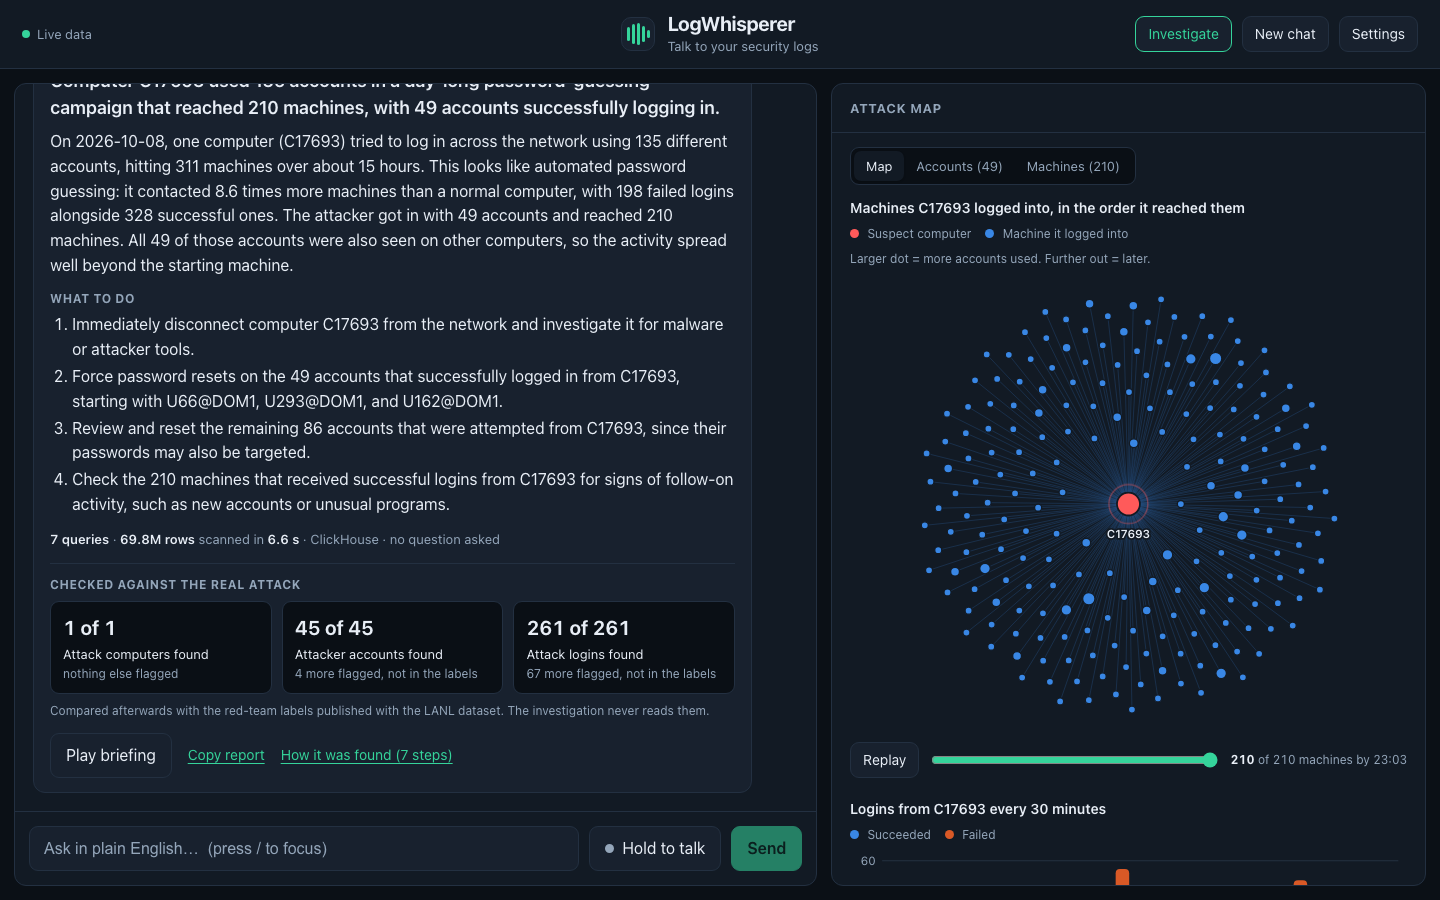
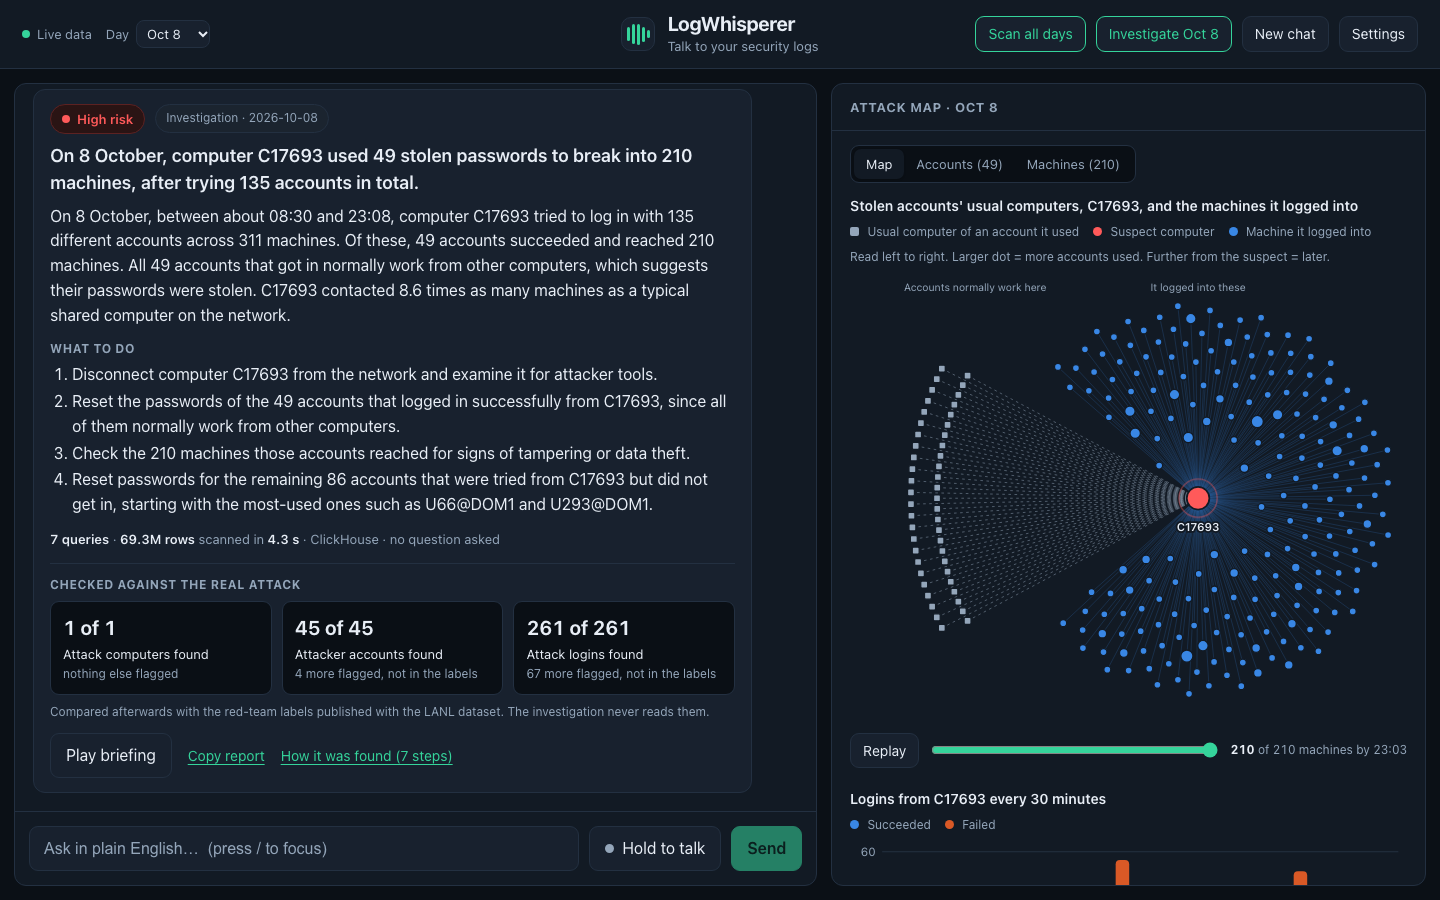
Attack map: add the stolen accounts' usual computers as a third layer
- Investigation finds the computer each stolen account normally works from
- Map reads left to right: usual computers, the suspect, the machines it reached;
  during replay an account's line appears when the suspect first uses it
- Accounts table gains a usual-computer column
- Home page leads with the scan when several days are loaded

diff --git a/frontend/src/components/AttackMap.jsx b/frontend/src/components/AttackMap.jsx
@@ -1,38 +1,70 @@
 import { useEffect, useMemo, useRef, useState } from "react";
 import { useMask } from "../settings.js";
 
-const SIZE = 520;
-const CENTER = SIZE / 2;
-const GOLDEN_ANGLE = Math.PI * (3 - Math.sqrt(5));
+const W = 640;
+const H = 520;
+const SUSPECT = { x: 400, y: H / 2 };
+// Fraction of a turn between successive machines. The golden ratio spreads points
+// evenly whether it is applied to a full circle or, as here, to a wedge.
+const GOLDEN_FRACTION = 0.381966;
+// Machines fan out to the right of the suspect; the wedge on its left is kept
+// clear for the lines coming in from the accounts' usual computers.
+const FAN_DEGREES = 280;
 const PLAY_MS = 6000;
 
 const clock = (iso) => String(iso).slice(11, 16);
+const radians = (degrees) => (degrees * Math.PI) / 180;
 
 /**
- * The suspect computer in the middle and every machine it logged into around it.
+ * Three layers, read left to right:
+ *   the computers the stolen accounts normally work from,
+ *   the suspect computer that used those accounts,
+ *   and every machine it logged into.
  * Machines are placed in the order they were first reached, spiralling outward,
- * so distance from the centre is time. The slider replays the spread.
+ * so distance from the suspect is time. The slider replays the spread.
  */
-export default function AttackMap({ suspects, edges }) {
+export default function AttackMap({ suspects, edges, accounts = [], homes = [] }) {
   const mask = useMask();
   const [shown, setShown] = useState(edges.length);
   const [playing, setPlaying] = useState(false);
   const [hover, setHover] = useState(null);
   const frame = useRef(0);
 
-  const nodes = useMemo(() => {
-    const maxRadius = CENTER - 22;
-    return edges.map((edge, i) => {
-      const radius = 46 + (maxRadius - 46) * Math.sqrt((i + 1) / edges.length);
-      const angle = i * GOLDEN_ANGLE;
+  const nodes = useMemo(
+    () =>
+      edges.map((edge, i) => {
+        const radius = 46 + (225 - 46) * Math.sqrt((i + 1) / edges.length);
+        const angle = radians(-FAN_DEGREES / 2 + ((i * GOLDEN_FRACTION) % 1) * FAN_DEGREES);
+        return {
+          ...edge,
+          kind: "target",
+          x: SUSPECT.x + radius * Math.cos(angle),
+          y: SUSPECT.y + radius * Math.sin(angle),
+          r: Math.min(8, 3 + edge.accounts),
+        };
+      }),
+    [edges]
+  );
+
+  // One square per usual computer, on two staggered arcs to the left of the suspect.
+  const homeNodes = useMemo(() => {
+    const used = new Map(accounts.map((a) => [a.account, a]));
+    const span = Math.min(56, Math.max(12, homes.length * 1.3));
+    return homes.map((home, i) => {
+      const t = homes.length > 1 ? i / (homes.length - 1) : 0.5;
+      const angle = radians(180 - span / 2 + t * span);
+      const radius = i % 2 ? 330 : 300;
+      const account = used.get(home.account);
       return {
-        ...edge,
-        x: CENTER + radius * Math.cos(angle),
-        y: CENTER + radius * Math.sin(angle),
-        r: Math.min(8, 3 + edge.accounts),
+        ...home,
+        kind: "home",
+        firstUsed: account?.first_seen,
+        targets: account?.targets,
+        x: SUSPECT.x + radius * Math.cos(angle),
+        y: SUSPECT.y + radius * Math.sin(angle),
       };
     });
-  }, [edges]);
+  }, [homes, accounts]);
 
   useEffect(() => {
     if (!playing) return;
@@ -50,24 +82,46 @@ export default function AttackMap({ suspects, edges }) {
   if (!edges.length) return null;
   const name = suspects.map((s) => s.computer).join(", ");
   const last = shown > 0 ? nodes[shown - 1] : null;
+  // During a replay, an account's line appears once the suspect has started using it.
+  const now = shown >= edges.length ? "9999" : last ? String(last.first_seen) : "";
+  const inUse = (home) => !home.firstUsed || String(home.firstUsed) <= now;
 
   return (
     <figure className="viz">
       <figcaption className="viz__title">
-        Machines {mask(name)} logged into, in the order it reached them
+        {homeNodes.length > 0
+          ? `Stolen accounts' usual computers, ${mask(name)}, and the machines it logged into`
+          : `Machines ${mask(name)} logged into, in the order it reached them`}
       </figcaption>
 
       <div className="viz__legend">
+        {homeNodes.length > 0 && (
+          <span><i className="key key--home" /> Usual computer of an account it used</span>
+        )}
         <span><i className="key key--suspect" /> Suspect computer</span>
         <span><i className="key key--target" /> Machine it logged into</span>
-        <span className="viz__note">Larger dot = more accounts used. Further out = later.</span>
+        <span className="viz__note">
+          Read left to right. Larger dot = more accounts used. Further from the suspect = later.
+        </span>
       </div>
 
       <div className="map">
-        <svg viewBox={`0 0 ${SIZE} ${SIZE}`} role="img"
-             aria-label={`${edges.length} machines reached from ${name}`}>
+        <svg viewBox={`0 0 ${W} ${H}`} role="img"
+             aria-label={`${homeNodes.length} usual computers, the suspect ${name}, and ${edges.length} machines it reached`}>
+          {homeNodes.filter(inUse).map((n) => (
+            <line key={`h-${n.account}`} className="map__theft" x1={n.x} y1={n.y} x2={SUSPECT.x} y2={SUSPECT.y} />
+          ))}
           {nodes.slice(0, shown).map((n) => (
-            <line key={`l-${n.target}`} className="map__edge" x1={CENTER} y1={CENTER} x2={n.x} y2={n.y} />
+            <line key={`l-${n.target}`} className="map__edge" x1={SUSPECT.x} y1={SUSPECT.y} x2={n.x} y2={n.y} />
+          ))}
+          {homeNodes.map((n) => (
+            <g key={n.account}
+               onPointerEnter={() => setHover(n)}
+               onPointerLeave={() => setHover((h) => (h === n ? null : h))}>
+              <circle className="map__hit" cx={n.x} cy={n.y} r={11} />
+              <rect className={`map__home ${inUse(n) ? "" : "is-waiting"} ${hover === n ? "is-hover" : ""}`}
+                    x={n.x - 4} y={n.y - 4} width={8} height={8} rx={1.5} />
+            </g>
           ))}
           {nodes.slice(0, shown).map((n) => (
             <g key={n.target}
@@ -77,16 +131,38 @@ export default function AttackMap({ suspects, edges }) {
               <circle className={`map__node ${hover === n ? "is-hover" : ""}`} cx={n.x} cy={n.y} r={n.r} />
             </g>
           ))}
-          <circle className="map__suspect-ring" cx={CENTER} cy={CENTER} r={22} />
-          <circle className="map__suspect" cx={CENTER} cy={CENTER} r={13} />
-          <text className="map__label" x={CENTER} y={CENTER + 38} textAnchor="middle">{mask(name)}</text>
+          <circle className="map__suspect-ring" cx={SUSPECT.x} cy={SUSPECT.y} r={22} />
+          <circle className="map__suspect" cx={SUSPECT.x} cy={SUSPECT.y} r={13} />
+          <text className="map__label" x={SUSPECT.x} y={SUSPECT.y + 38} textAnchor="middle">{mask(name)}</text>
+          {homeNodes.length > 0 && (
+            <>
+              <text className="map__caption" x={62} y={22}>Accounts normally work here</text>
+              <text className="map__caption" x={SUSPECT.x} y={22} textAnchor="middle">It logged into these</text>
+            </>
+          )}
         </svg>
 
         {hover && (
-          <div className="tooltip" style={{ left: `${(hover.x / SIZE) * 100}%`, top: `${(hover.y / SIZE) * 100}%` }}>
-            <strong>{mask(hover.target)}</strong>
-            <span>First reached {clock(hover.first_seen)}</span>
-            <span>{hover.accounts} {hover.accounts === 1 ? "account" : "accounts"} · {hover.logins} {hover.logins === 1 ? "login" : "logins"}</span>
+          <div className="tooltip" style={{ left: `${(hover.x / W) * 100}%`, top: `${(hover.y / H) * 100}%` }}>
+            {hover.kind === "home" ? (
+              <>
+                <strong>{mask(hover.home)}</strong>
+                <span>Usual computer of {mask(hover.account)}</span>
+                {hover.firstUsed && <span>Suspect first used that account at {clock(hover.firstUsed)}</span>}
+                {hover.targets != null && (
+                  <span>and reached {hover.targets} {hover.targets === 1 ? "machine" : "machines"} with it</span>
+                )}
+              </>
+            ) : (
+              <>
+                <strong>{mask(hover.target)}</strong>
+                <span>First reached {clock(hover.first_seen)}</span>
+                <span>
+                  {hover.accounts} {hover.accounts === 1 ? "account" : "accounts"} · {hover.logins}{" "}
+                  {hover.logins === 1 ? "login" : "logins"}
+                </span>
+              </>
+            )}
           </div>
         )}
       </div>

diff --git a/frontend/src/App.jsx b/frontend/src/App.jsx
@@ -280,7 +280,12 @@ export default function App() {
                 Scan all days
               </button>
             )}
-            <button className="btn btn--small btn--accent" onClick={runInvestigation} disabled={busy}>
+            <button
+              className="btn btn--small btn--accent"
+              onClick={runInvestigation}
+              disabled={busy}
+              title="Investigate the day chosen in the Day menu"
+            >
               Investigate{day ? ` ${dayLabel(day)}` : ""}
             </button>
             <button className="btn btn--small" onClick={clearConversation} disabled={!messages.length || busy}>
@@ -315,7 +320,7 @@ export default function App() {
                   <p className="empty__lead">Find the attacker, or ask the logs a question.</p>
                   <p className="empty__sub">
                     {days.length > 1
-                      ? `Scan all ${days.length} days with no hints, investigate one, or hold the mic and ask.`
+                      ? `Scan all ${days.length} days with no hints to see which need a closer look. Or hold the mic and ask.`
                       : "Investigate hunts through the logs with no hints. Or hold the mic and ask."}
                   </p>
                   <div className="empty__actions">
@@ -324,13 +329,11 @@ export default function App() {
                         Scan all {days.length} days
                       </button>
                     )}
-                    <button
-                      className={`btn btn--hero ${days.length > 1 ? "btn--accent" : "btn--send"}`}
-                      onClick={runInvestigation}
-                      disabled={busy}
-                    >
-                      Investigate{day ? ` ${dayLabel(day)}` : ""}
-                    </button>
+                    {days.length <= 1 && (
+                      <button className="btn btn--send btn--hero" onClick={runInvestigation} disabled={busy}>
+                        Run an investigation
+                      </button>
+                    )}
                   </div>
                   <div className="empty__chips">
                     {DEMO_QUESTIONS.map((q) => (

diff --git a/frontend/src/App.css b/frontend/src/App.css
@@ -260,12 +260,19 @@
 .viz__note { flex-basis: 100%; }
 .key { display: inline-block; width: 9px; height: 9px; border-radius: 50%; margin-right: 5px; vertical-align: 0; }
 .key--suspect { background: var(--high); }
+/* Usual computers are neutral squares: told apart by shape and position, not by another hue. */
+.key--home { background: var(--muted); border-radius: 2px; }
 .key--target, .key--s1 { background: var(--series-1); }
 .key--s2 { background: var(--series-2); }
 
 .map, .chart { position: relative; }
 .map svg, .chart svg { display: block; width: 100%; height: auto; }
-.map svg { max-height: 460px; }
+.map svg { max-height: 470px; }
+.map__theft { stroke: var(--muted); stroke-width: 1; stroke-dasharray: 3 4; opacity: 0.55; }
+.map__home { fill: var(--muted); stroke: var(--panel); stroke-width: 1.5; }
+.map__home.is-waiting { fill: var(--panel); stroke: var(--muted); }
+.map__home.is-hover { stroke: var(--text); stroke-width: 2; }
+.map__caption { fill: var(--muted); font-size: 12px; }
 .map__edge { stroke: var(--series-1); stroke-width: 1; opacity: 0.22; }
 .map__node { fill: var(--series-1); stroke: var(--panel); stroke-width: 1.5; transition: r 0.12s; }
 .map__node.is-hover { stroke: var(--text); stroke-width: 2; }

diff --git a/frontend/src/components/InvestigationPanel.jsx b/frontend/src/components/InvestigationPanel.jsx
@@ -47,7 +47,7 @@ export default function InvestigationPanel({ data, onScan }) {
 
       {view === "map" && (
         <>
-          <AttackMap suspects={data.suspects} edges={data.edges} />
+          <AttackMap suspects={data.suspects} edges={data.edges} accounts={data.accounts} homes={data.homes} />
           <ActivityChart activity={data.activity} name={name} />
         </>
       )}

diff --git a/backend/investigate.py b/backend/investigate.py
@@ -38,6 +38,7 @@ Return ONLY JSON:
   "accounts_whose_usual_computer_is_elsewhere" means those accounts normally work from other machines,
   which suggests their passwords were stolen; it does not mean the attack moved to other machines.
   Write dates in words, for example "8 October".
+  "top_accounts" are accounts that got in. Name them only when talking about accounts that got in.
   Give the counts as they are. Do not write "most", "nearly all" or "few" unless the numbers support it.
   "times_normal" compares the suspect with other shared computers on the network, not with its own past.
 - "actions": up to 4 concrete actions in priority order, naming the specific computer and how many accounts.
@@ -122,7 +123,7 @@ def investigate(day: str = None) -> dict:
     else:
         steps.note(f"No shared computer reached more than {threshold:.0f} machines.")
 
-    accounts, edges, activity, targets_reached, elsewhere = [], [], [], 0, 0
+    accounts, edges, activity, homes, targets_reached, elsewhere = [], [], [], [], 0, 0
     if suspects:
         names = _in_list(s["computer"] for s in suspects)
 
@@ -145,14 +146,21 @@ def investigate(day: str = None) -> dict:
         steps.note(f"{len(accounts)} accounts logged in successfully from the suspect.")
 
         if accounts:
-            # 5. Do these accounts normally work from somewhere else?
-            rows = steps.run("Check where those accounts normally work", f"""
-                SELECT uniqExact(src_user) AS seen_elsewhere FROM auth_logs
-                WHERE {in_scope}src_user IN ({_in_list(a['account'] for a in accounts)}) AND src_comp NOT IN ({names})
-                LIMIT 1""")
-            elsewhere = int(rows[0]["seen_elsewhere"]) if rows else 0
-            steps.note(f"{elsewhere} of the {len(accounts)} accounts also log in from other computers, "
-                       f"so the suspect is not their usual machine.")
+            # 5. Where do these accounts normally work? The computer each one logs in from
+            #    most, other than the suspect, is taken as its usual machine.
+            homes = steps.run("Find where those accounts normally work", f"""
+                SELECT account, home, logins FROM (
+                    SELECT src_user AS account, src_comp AS home, count() AS logins FROM auth_logs
+                    WHERE {in_scope}src_user IN ({_in_list(a['account'] for a in accounts)})
+                      AND src_comp NOT IN ({names})
+                    GROUP BY account, home ORDER BY logins DESC LIMIT 1 BY account)
+                ORDER BY logins DESC LIMIT 500""")
+            usual = {h["account"]: h["home"] for h in homes}
+            for account in accounts:
+                account["usual_computer"] = usual.get(account["account"])
+            elsewhere = len(usual)
+            steps.note(f"{elsewhere} of the {len(accounts)} accounts normally log in from another computer "
+                       f"({len(set(usual.values()))} different ones), so the suspect is not their usual machine.")
 
         # 6. Where did it get in, and when?
         edges = steps.run("Map the machines it reached", f"""
@@ -203,6 +211,7 @@ def investigate(day: str = None) -> dict:
         "report_written_by_model": written_by_model,
         "suspects": suspects,
         "accounts": accounts,
+        "homes": homes,
         "edges": edges,
         "activity": activity,
         "steps": steps.steps,

diff --git a/README.md b/README.md
@@ -4,7 +4,7 @@
 
 Point it at 278 million real logins from Los Alamos National Laboratory and click one button. It learns what normal looks like, finds the computer an attacker was working from, lists the accounts they stole, and maps every machine they reached. Then it tells you, in plain English, what to do about it. You can also just ask it questions, by voice or by typing.
 
-![An investigation: the report, its scorecard against the real attack, and the attack map](docs/investigation.png)
+![An investigation: the report, its scorecard against the real attack, and the attack map showing where the stolen accounts normally work, the attack computer, and the machines it reached](docs/investigation.png)
 
 ## Results
 
@@ -52,8 +52,8 @@ It does not catch low-and-slow activity: on nine days the red team made between 
 2. Find computers far outside that norm, using many accounts to reach many machines.
 3. Profile the suspect: successes, failures, login types.
 4. List the accounts that got in. Their passwords are probably stolen.
-5. Check that those accounts normally work from other machines.
-6. Map where the suspect got in, in order.
+5. Find the computer each of those accounts normally works from.
+6. Map where the suspect got in, in order, alongside the usual computers of the accounts it used.
 7. Chart its activity through the day.
 
 The model writes the report from these findings. It does not decide them, so the findings are identical on every run.
